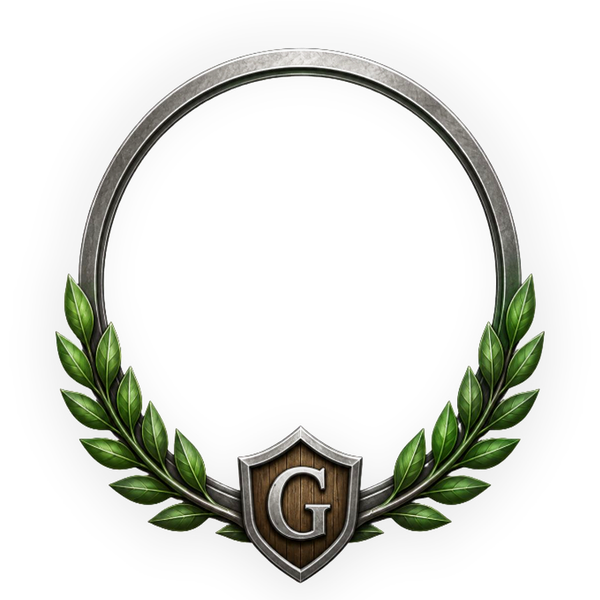
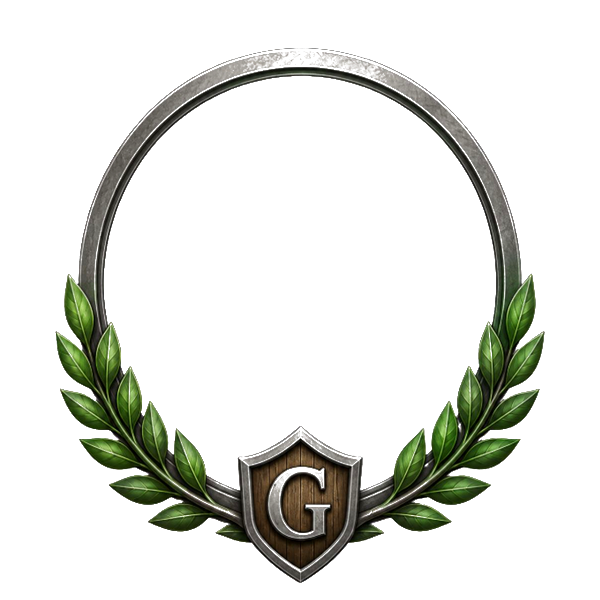
v7

diff --git a/components/EmblemaConquista.js b/components/EmblemaConquista.js
@@ -70,7 +70,7 @@ export default function EmblemaConquista({
       {/* foto/ícone da conquista, encaixado no vão do emblema */}
       <div
         className="absolute overflow-hidden rounded-full bg-cream-card"
-        style={{ left: '21.5%', right: '21.5%', top: '16%', bottom: '27%' }}
+        style={{ left: '17%', right: '17%', top: '12%', bottom: '22%' }}
       >
         <div className="flex h-full w-full items-center justify-center">
           {conquista.imagemURL ? (

diff --git a/components/AchievementBadge.js b/components/AchievementBadge.js
@@ -94,7 +94,7 @@ export default function AchievementBadge({ conquista, onAberta }) {
             <>
               <div
                 className="absolute flex items-center justify-center overflow-hidden rounded-full bg-cream-card"
-                style={{ left: '21.5%', right: '21.5%', top: '16%', bottom: '27%' }}
+                style={{ left: '17%', right: '17%', top: '12%', bottom: '22%' }}
               >
                 {conteudo}
               </div>
